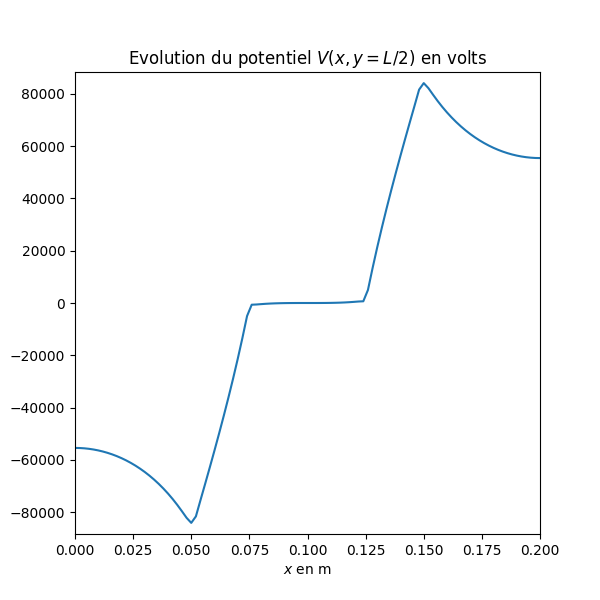
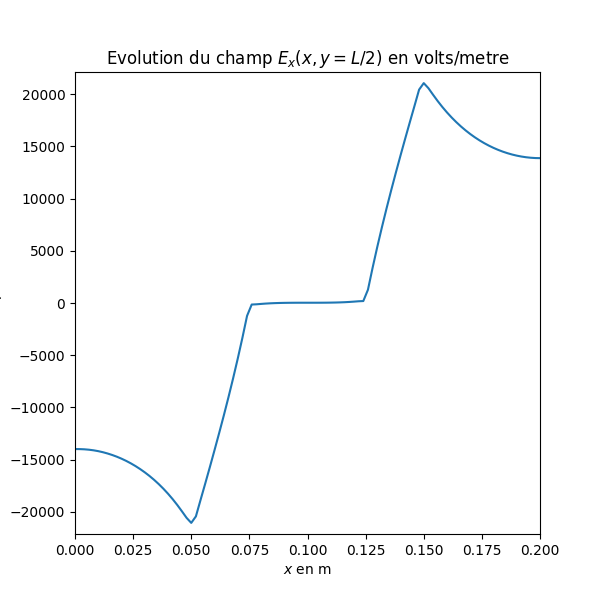
Correction du bug: le 0.25 multiplie aussi rhos dans le calcul du potentiel. Maintenant les figures correspondent à celles de l’énoncé.

diff --git a/concours/CCP/PC/2017/PC_CCP_modelisation_2017.py b/concours/CCP/PC/2017/PC_CCP_modelisation_2017.py
@@ -1,11 +1,12 @@
+# coding: latin1
+
 """
 Auteur: JJ Fleck, PCSI1, Kléber
 
-Proposition d'implémentation pour l'épreuve de modélisation de 
-Physique-Chimie, filière PC, concours CCP concernant la résolution de 
-l'équation de poisson dans un plan (x,y) pour une distribution volumique de 
+Proposition d'implémentation pour l'épreuve de modélisation de
+Physique-Chimie, filière PC, concours CCP concernant la résolution de
+l'équation de poisson dans un plan (x,y) pour une distribution volumique de
 charges donnée.
-
 """
 
 import numpy as np
@@ -23,7 +24,7 @@ def nouveau_potentiel(V,rhos,frontiere,i,j):
     if frontiere[i,j]: 
         return V[i,j]
     else:
-        return 0.25 * (V[i+1,j] + V[i-1,j] + V[i,j+1] + V[i,j-1]) + rhos[i,j]
+        return 0.25 * (V[i+1,j] + V[i-1,j] + V[i,j+1] + V[i,j-1] + rhos[i,j])
 
 # Q8
 def itere_J(V,rhos,frontiere):
@@ -120,8 +121,8 @@ if cylindre_infini:
     print('Cylindre infini')
     # Initialisations
     eps0 = 8.85e-12   # epsilon_0
-    L = 20.0e-2       # Largeur L de la zone de visualisation
-    R = L/4           # Rayon du cylindre
+    R = 0.05           # Rayon du cylindre
+    L = R*4       # Largeur L de la zone de visualisation
     xC,yC = L/2,L/2   # Centre du cylindre
     N = 100           # Nombre de points
     rho = 1e-5        # densité volumique de charge rho
@@ -141,7 +142,7 @@ if cylindre_infini:
         
     # Q20: 
     def initialise_rhos_cylindre(tab_rhos):
-        # h, XC, YC, R et rhos sont des variables globales initialisées plus haut
+        # h, xC, yC, R et rhos sont des variables globales initialisées plus haut
         N = len(tab_rhos)-1
         for i in range(N+1):
             for j in range(N+1):
@@ -159,7 +160,7 @@ if cylindre_infini:
     
     # Faisons la résolution proprement dite
     print('Début des calculs')
-    seuil = 1e-5
+    seuil = 1e-1
     initialise_rhos_cylindre(rhos_cyl)
     initialise_frontiere_cylindre(frontiere_cyl)
     poisson(itere_SOR,V_cyl,rhos_cyl,frontiere_cyl,seuil)
@@ -222,9 +223,9 @@ if cylindre_infini:
     def graphe_Ex(fichier,Ex_cyl):
         plt.figure(figsize=(cote,cote))
         plt.plot(x,Ex_cyl[:,N//2+1])
-        plt.title('Evolution du potentiel $V(x,y=L/2)$ en volts')
+        plt.title('Evolution du champ $E_x(x,y=L/2)$ en volts/metre')
         plt.xlabel('$x$ en m')
-        plt.ylabel('$V$ en volts')
+        plt.ylabel('$E_x$ en volts par metre')
         plt.xlim((min(x),max(x)))
         plt.ylim((1.05*np.min(Ex_cyl),1.05*np.max(Ex_cyl)))
         plt.savefig(fichier)
